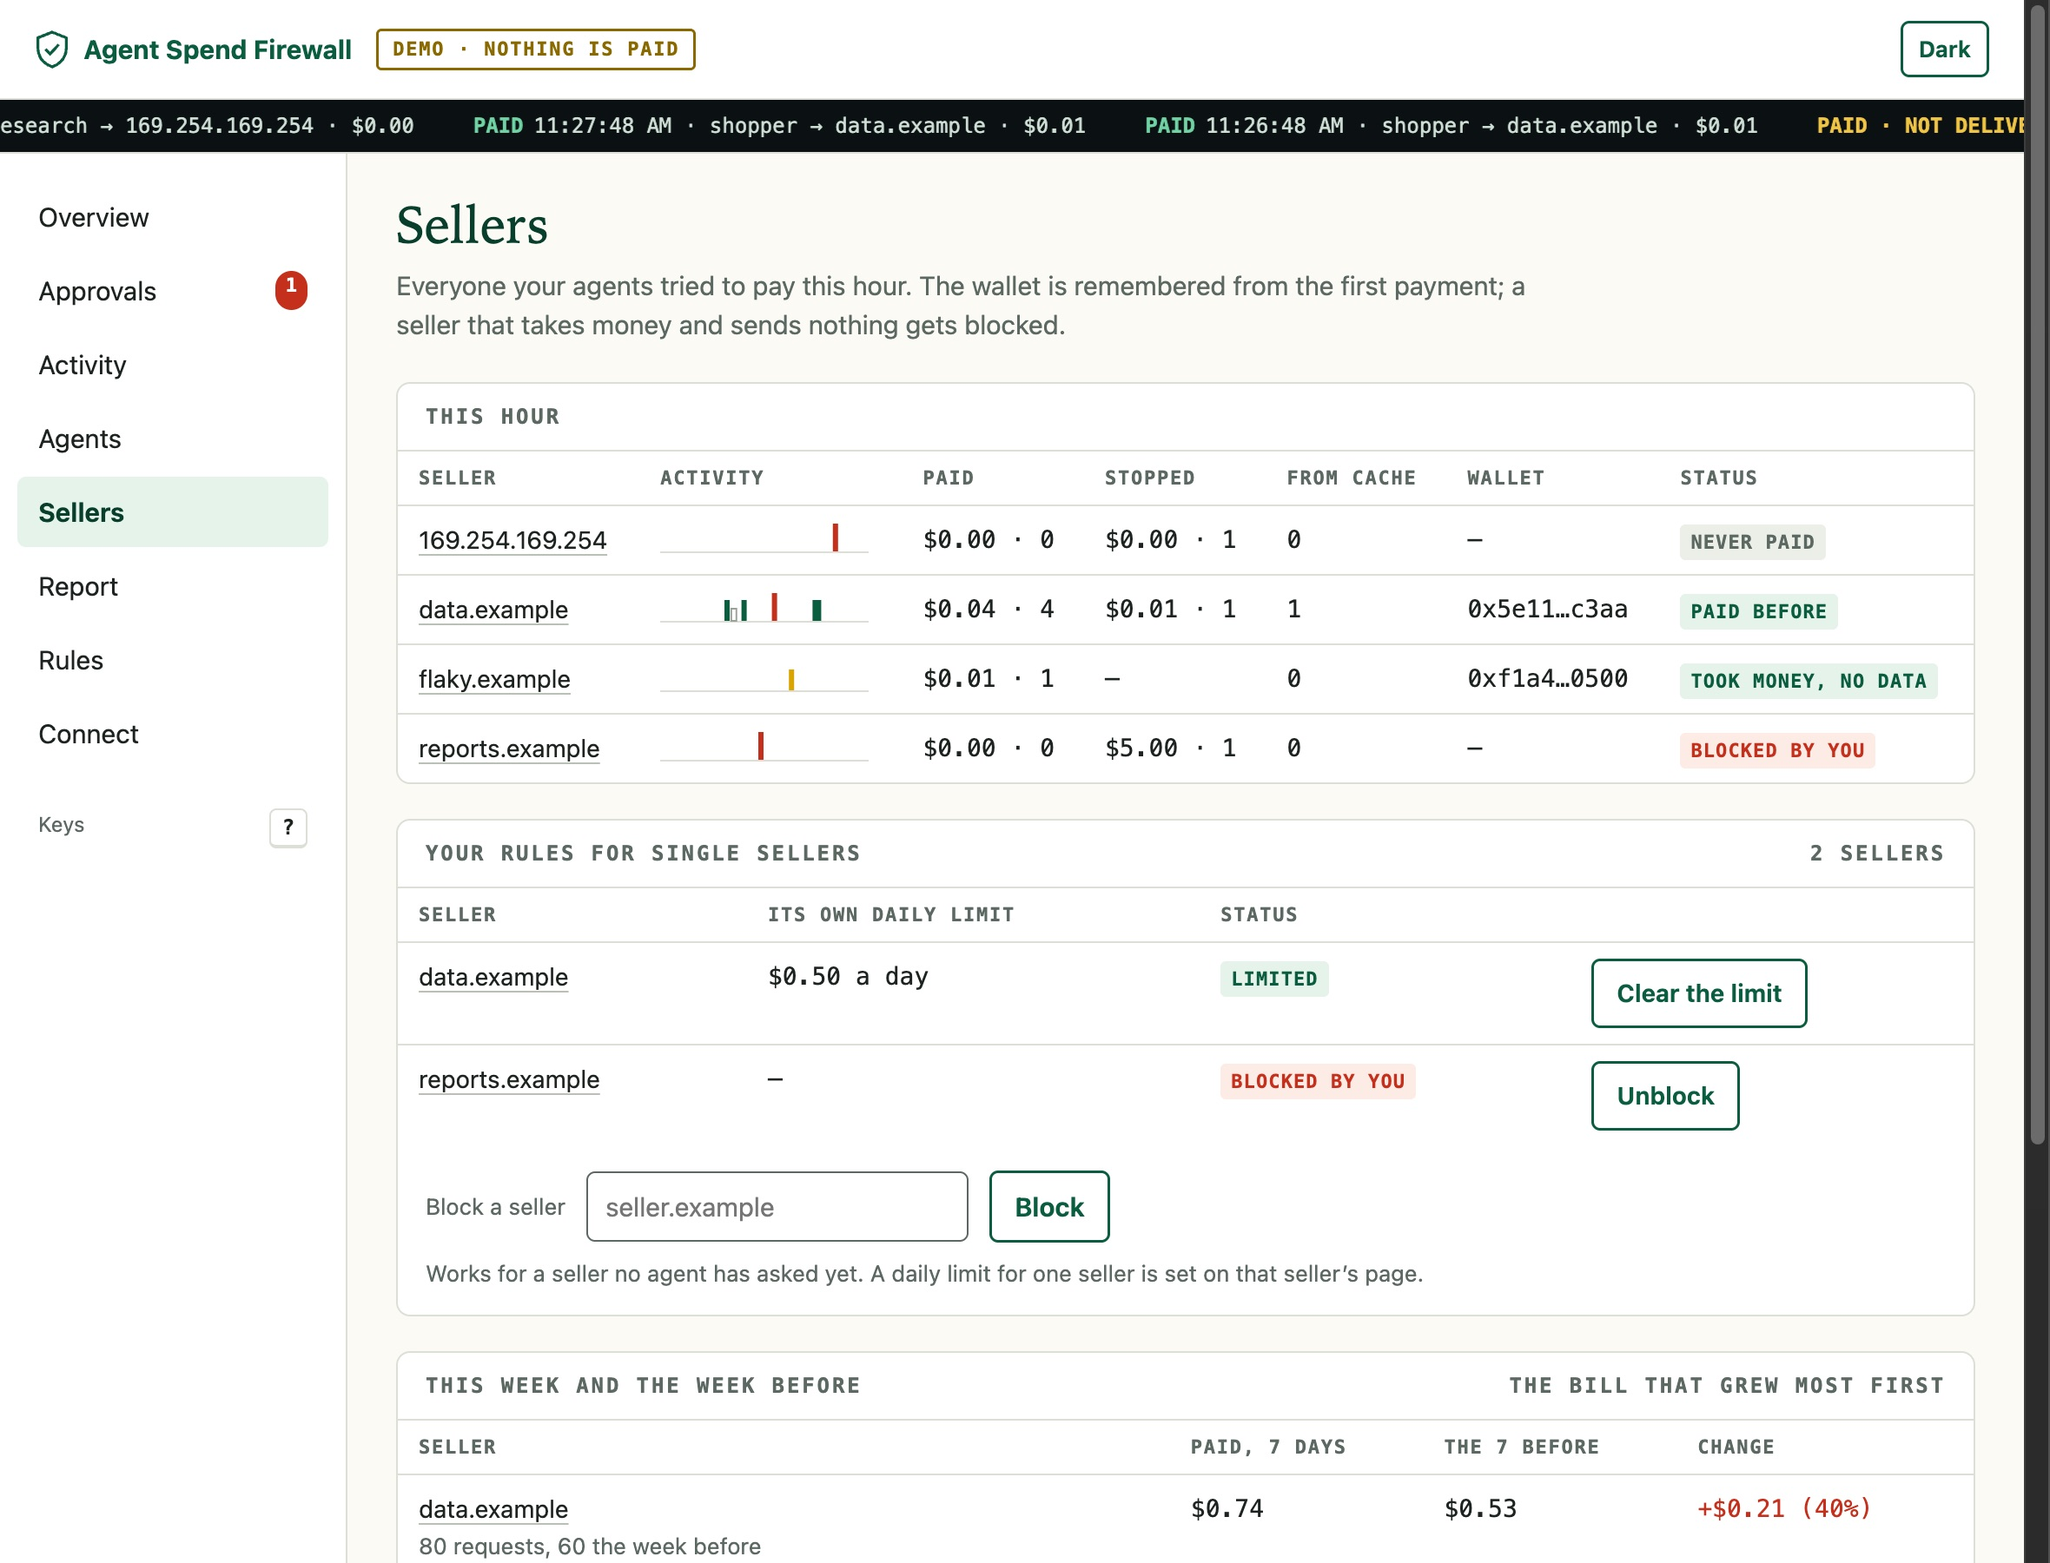
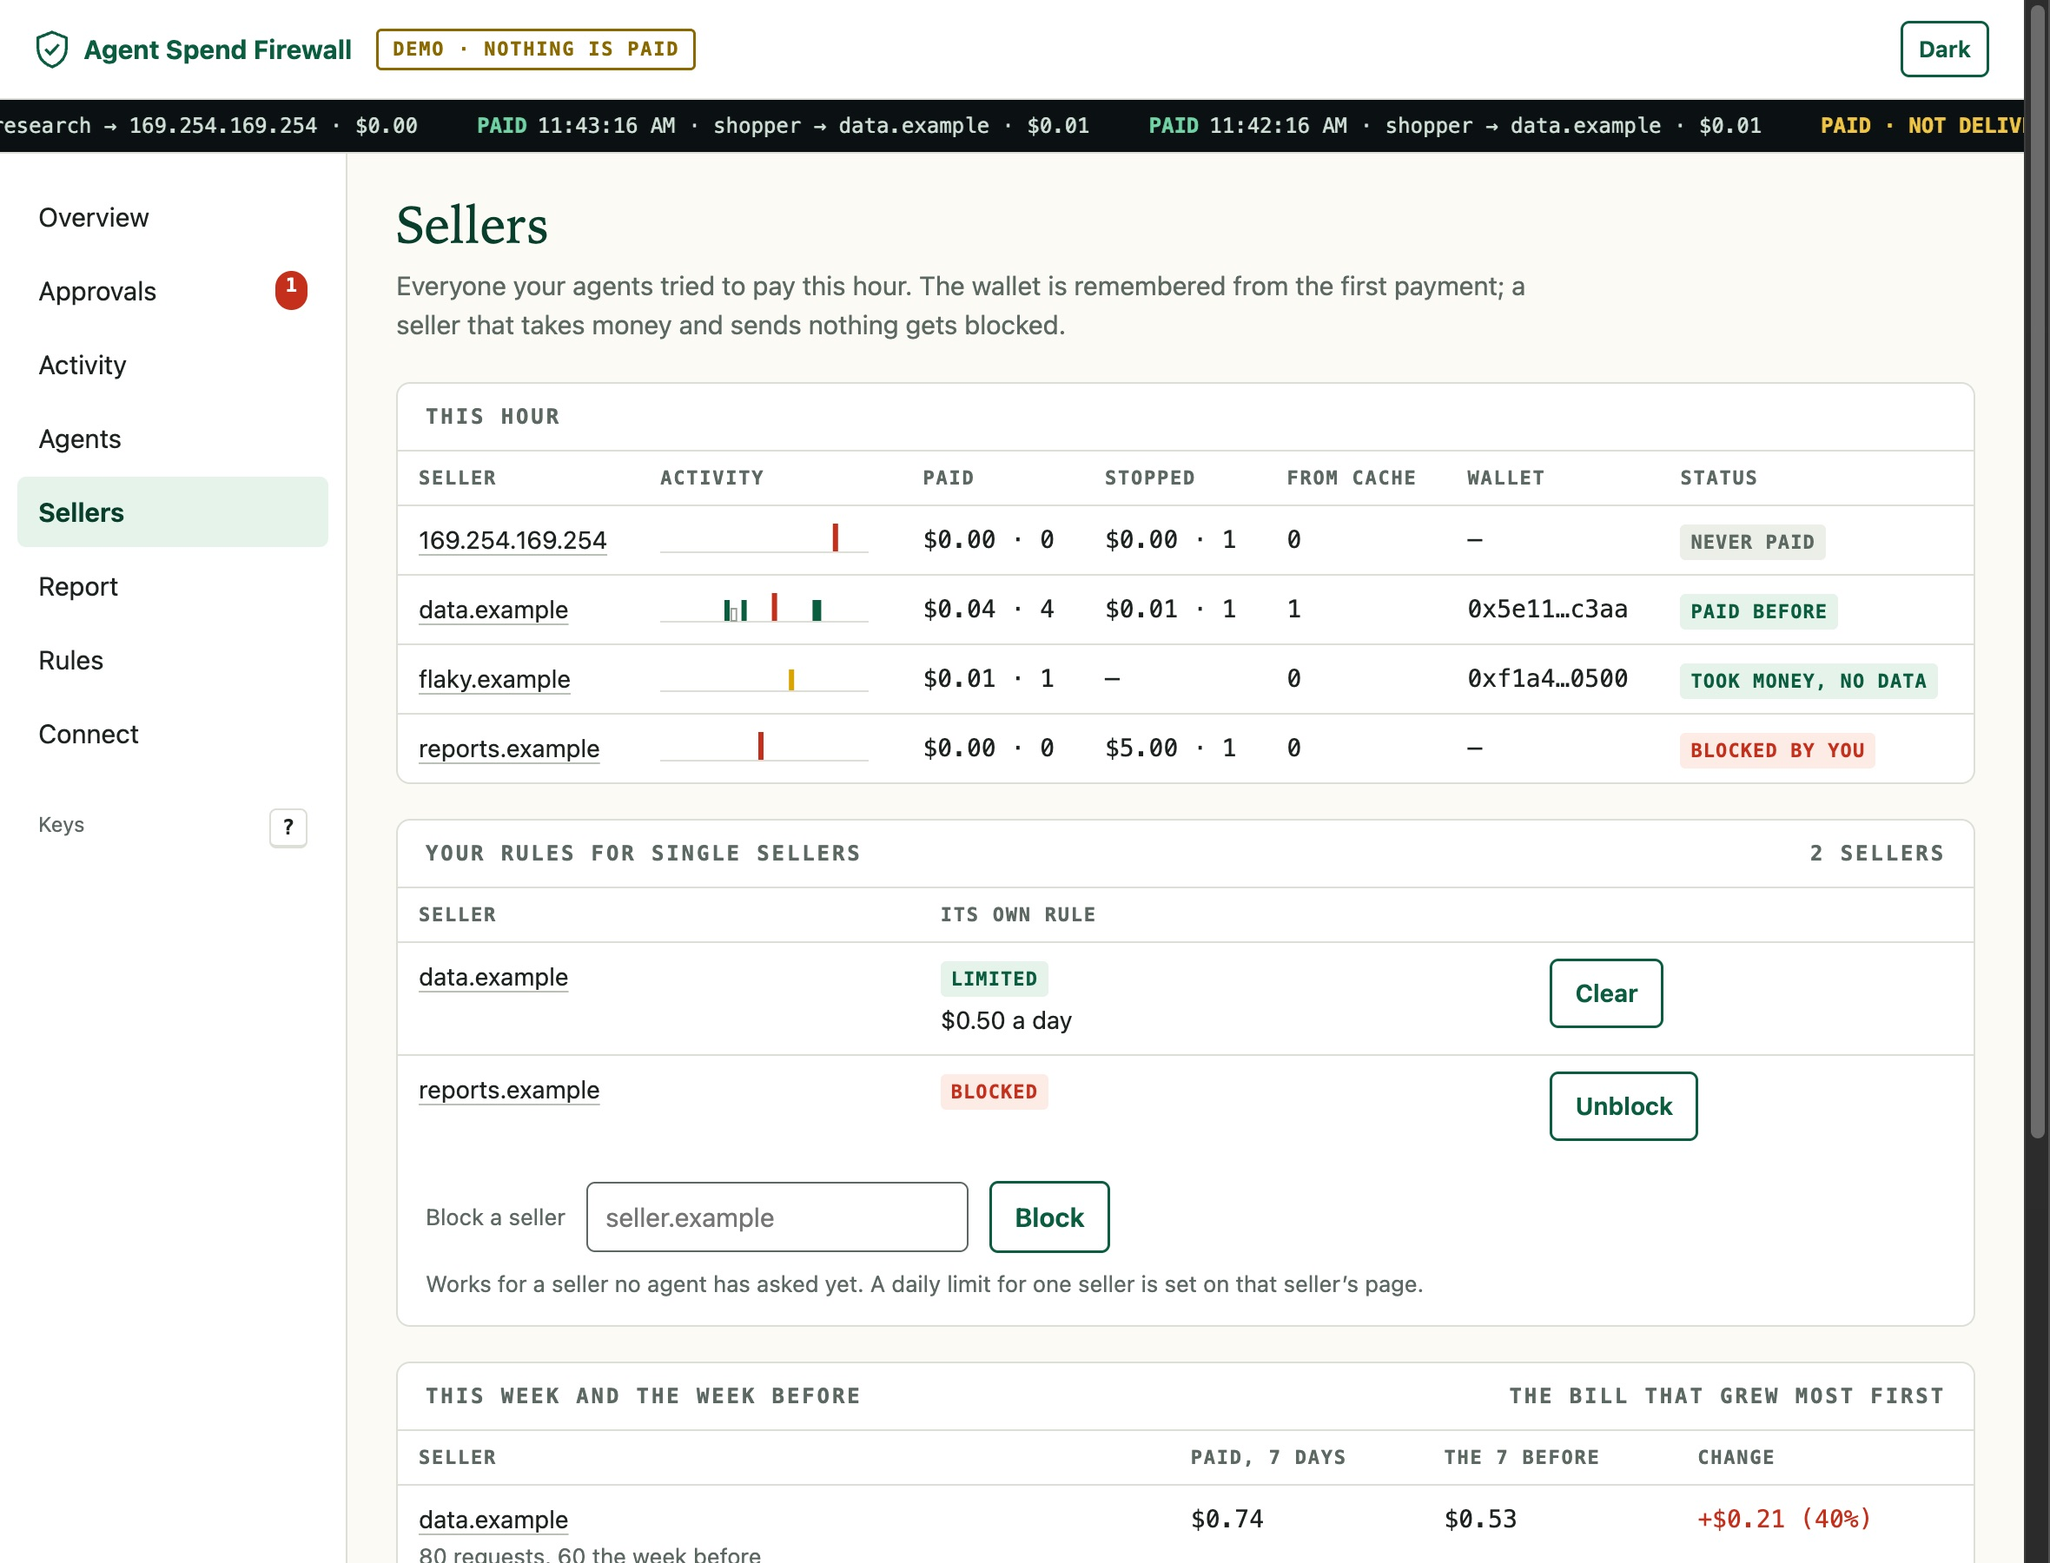
fix: Sellers, Connect and the list of changes at phone width

diff --git a/docs/console/index.html b/docs/console/index.html
@@ -76,6 +76,9 @@ tr.clk{cursor:pointer}tr.clk:hover td{background:var(--bg)}.hist td:nth-child(2)
 .guide .mark{width:24px;height:24px;border-radius:50%;border:1.5px solid var(--ink);display:grid;place-items:center;font:600 12px/1 var(--mono);flex:none}
 .guide .step.done .mark{background:var(--ink);color:#fff}.guide .step.done b{color:var(--mute)}.guide .step>div{flex:1 1 220px;min-width:0}.guide .step small{display:block;color:var(--mute)}
 pre{background:#0b1113;color:#eef5f1;padding:14px 16px;border-radius:6px;overflow-x:auto;font:12.5px/1.6 var(--mono);margin:0;white-space:pre-wrap;word-break:break-word}
+/* A command is read line by line: it keeps its own line breaks and scrolls sideways inside its box when the screen is narrow. */
+pre.cmd{white-space:pre;word-break:normal}
+.card>h2>span{text-align:right}
 .chips{display:flex;gap:6px}.chip{border:1px solid var(--line);background:var(--card);border-radius:99px;padding:4px 10px;font-size:13px;cursor:pointer}.chip.on{border-color:var(--ink);color:var(--ink);font-weight:650}
 aside{border-left:1px solid var(--line);background:var(--card);padding:16px}
 aside h3{font:600 12px/1 var(--mono);letter-spacing:.12em;text-transform:uppercase;color:var(--warn);margin:0 0 6px}
@@ -219,6 +222,8 @@ tbody tr.fresh{animation:fresh 1.6s ease-out}
   main{padding:18px 16px 40px}.tiles{grid-template-columns:repeat(2,minmax(0,1fr))}
   .top .addr{display:none}aside .acts2{grid-template-columns:repeat(2,minmax(0,1fr))}
   th:nth-child(5),td:nth-child(5){display:none}
+  .card>h2{line-height:1.5;align-items:baseline}.hist td .btn{white-space:nowrap;padding:5px 9px;font-size:13px}
+  #slOwn th,#slOwn td{padding-left:10px;padding-right:10px}#slOwn td:first-child{word-break:break-all}
   /* Phone: the top bar is two short rows, long strings break, the practice panel comes after the console. */
   .top{flex-wrap:wrap;gap:8px;padding:10px 12px}.brand,.top .pill,.top .btn{white-space:nowrap}.brand{font-size:14px}.top .pill{font-size:10px;letter-spacing:.04em;padding:4px 6px}
   main{overflow-wrap:break-word}aside{order:2;border-bottom:0;border-top:1px solid var(--line)}
@@ -992,11 +997,12 @@ nav .keyhint{margin-top:14px;font-size:12px;color:var(--mute)}nav .keyhint kbd{m
     var add = function () { var v = inp.value.trim().toLowerCase().replace(/^https?:\/\//, "").split("/")[0]; if (!v) { S.ownMsg = { ok: false, text: "Type the seller\u2019s name, like data.example." }; render(); return; } send(v, { blocked: true }, "Blocked " + v + ". No agent can pay it."); };
     inp.addEventListener("keydown", function (ev) { if (ev.key === "Enter") add(); });
     return h("div", { class: "card", id: "slOwn" }, [h("h2", {}, ["Your rules for single sellers", h("span", { text: hosts.length ? plural(hosts.length, "seller", "sellers") : "none yet" })]),
-      hosts.length ? h("table", {}, [h("thead", {}, [h("tr", {}, ["Seller", "Its own limits", "Status", ""].map(function (t) { return h("th", { text: t }); }))]),
+      hosts.length ? h("table", { class: "hist" }, [h("thead", {}, [h("tr", {}, ["Seller", "Its own rule", ""].map(function (t) { return h("th", { text: t }); }))]),
         h("tbody", {}, hosts.map(function (hn) { var r = R[hn];
-          return h("tr", {}, [h("td", {}, [lnk("seller", hn)]), h("td", { class: "num", text: [r.budget_usd != null ? usd(r.budget_usd) + " an hour" : null, r.daily_budget_usd != null ? usd(r.daily_budget_usd) + " a day" : null].filter(Boolean).join(" \u00b7 ") || "\u2014" }),
-            h("td", {}, [h("span", { class: "tag " + (r.blocked ? "no" : "ok"), text: r.blocked ? "BLOCKED BY YOU" : "LIMITED" })]),
-            h("td", {}, [h("button", { class: "btn", text: r.blocked ? "Unblock" : "Clear the limits", onclick: function () { send(hn, r.blocked ? { blocked: false } : { budget_usd: null, daily_budget_usd: null }, r.blocked ? "Unblocked " + hn + "." : hn + " has no limit of its own now."); } })])]); }))]) : null,
+          var lim = [r.budget_usd != null ? usd(r.budget_usd) + " an hour" : null, r.daily_budget_usd != null ? usd(r.daily_budget_usd) + " a day" : null].filter(Boolean).join(" \u00b7 ");
+          return h("tr", {}, [h("td", {}, [lnk("seller", hn)]),
+            h("td", {}, [h("span", { class: "tag " + (r.blocked ? "no" : "ok"), text: r.blocked ? "BLOCKED" : "LIMITED" }), lim ? h("div", { class: "num", style: "margin-top:4px", text: lim }) : null]),
+            h("td", {}, [h("button", { class: "btn", text: r.blocked ? "Unblock" : "Clear", title: r.blocked ? "Let agents pay this seller again" : "Remove this seller\u2019s own limits", onclick: function () { send(hn, r.blocked ? { blocked: false } : { budget_usd: null, daily_budget_usd: null }, r.blocked ? "Unblocked " + hn + "." : hn + " has no limit of its own now."); } })])]); }))]) : null,
       h("div", { class: "body" }, [h("div", { class: "row" }, [h("span", { class: "why", text: "Block a seller" }), inp, h("button", { class: "btn", id: "ownAdd", text: "Block", onclick: add }), h("span", { class: msg && msg.ok ? "okmsg" : "err", id: "ownMsg", text: msg ? msg.text : "" })]),
         h("small", { class: "why", style: "display:block;margin-top:8px", text: "Works for a seller no agent has asked yet. A daily limit for one seller is set on that seller\u2019s page." })])]);
   }
@@ -2360,7 +2366,7 @@ nav .keyhint{margin-top:14px;font-size:12px;color:var(--mute)}nav .keyhint kbd{m
       var auth = '  -H "authorization: Bearer $(cat ' + tokF + ')"';
       var curl = "# what the agent may spend right now\ncurl -s " + here + "/report \\\n" + auth + "\n\n# buy one paid address, at most $0.02\ncurl -s -X POST " + here + "/fetch \\\n" + auth + " \\\n" + '  -H "content-type: application/json" \\\n' + "  -d '{\"url\": \"https://seller.example/data\", \"max_usd\": \"0.02\"}'";
       var block = function (title, note, text, id) {
-        return h("div", { class: "card" }, [h("h2", {}, [title, note ? h("span", { text: note }) : null]), h("div", { class: "body" }, [h("pre", { id: id, text: text }),
+        return h("div", { class: "card" }, [h("h2", {}, [title, note ? h("span", { text: note }) : null]), h("div", { class: "body" }, [h("pre", { id: id, class: "cmd", text: text }),
           h("div", { class: "row", style: "margin-top:10px" }, [h("button", { class: "btn", text: "Copy", onclick: function (ev) { var bt = ev.currentTarget; if (navigator.clipboard) navigator.clipboard.writeText(text).then(function () { bt.textContent = "Copied"; setTimeout(function () { bt.textContent = "Copy"; }, 1500); }, function () {}); } })])])]);
       };
       var live = S.state.agents.filter(function (a) { return !a.revoked; });

diff --git a/src/console.html b/src/console.html
@@ -76,6 +76,9 @@ tr.clk{cursor:pointer}tr.clk:hover td{background:var(--bg)}.hist td:nth-child(2)
 .guide .mark{width:24px;height:24px;border-radius:50%;border:1.5px solid var(--ink);display:grid;place-items:center;font:600 12px/1 var(--mono);flex:none}
 .guide .step.done .mark{background:var(--ink);color:#fff}.guide .step.done b{color:var(--mute)}.guide .step>div{flex:1 1 220px;min-width:0}.guide .step small{display:block;color:var(--mute)}
 pre{background:#0b1113;color:#eef5f1;padding:14px 16px;border-radius:6px;overflow-x:auto;font:12.5px/1.6 var(--mono);margin:0;white-space:pre-wrap;word-break:break-word}
+/* A command is read line by line: it keeps its own line breaks and scrolls sideways inside its box when the screen is narrow. */
+pre.cmd{white-space:pre;word-break:normal}
+.card>h2>span{text-align:right}
 .chips{display:flex;gap:6px}.chip{border:1px solid var(--line);background:var(--card);border-radius:99px;padding:4px 10px;font-size:13px;cursor:pointer}.chip.on{border-color:var(--ink);color:var(--ink);font-weight:650}
 aside{border-left:1px solid var(--line);background:var(--card);padding:16px}
 aside h3{font:600 12px/1 var(--mono);letter-spacing:.12em;text-transform:uppercase;color:var(--warn);margin:0 0 6px}
@@ -219,6 +222,8 @@ tbody tr.fresh{animation:fresh 1.6s ease-out}
   main{padding:18px 16px 40px}.tiles{grid-template-columns:repeat(2,minmax(0,1fr))}
   .top .addr{display:none}aside .acts2{grid-template-columns:repeat(2,minmax(0,1fr))}
   th:nth-child(5),td:nth-child(5){display:none}
+  .card>h2{line-height:1.5;align-items:baseline}.hist td .btn{white-space:nowrap;padding:5px 9px;font-size:13px}
+  #slOwn th,#slOwn td{padding-left:10px;padding-right:10px}#slOwn td:first-child{word-break:break-all}
   /* Phone: the top bar is two short rows, long strings break, the practice panel comes after the console. */
   .top{flex-wrap:wrap;gap:8px;padding:10px 12px}.brand,.top .pill,.top .btn{white-space:nowrap}.brand{font-size:14px}.top .pill{font-size:10px;letter-spacing:.04em;padding:4px 6px}
   main{overflow-wrap:break-word}aside{order:2;border-bottom:0;border-top:1px solid var(--line)}
@@ -991,11 +996,12 @@ nav .keyhint{margin-top:14px;font-size:12px;color:var(--mute)}nav .keyhint kbd{m
     var add = function () { var v = inp.value.trim().toLowerCase().replace(/^https?:\/\//, "").split("/")[0]; if (!v) { S.ownMsg = { ok: false, text: "Type the seller\u2019s name, like data.example." }; render(); return; } send(v, { blocked: true }, "Blocked " + v + ". No agent can pay it."); };
     inp.addEventListener("keydown", function (ev) { if (ev.key === "Enter") add(); });
     return h("div", { class: "card", id: "slOwn" }, [h("h2", {}, ["Your rules for single sellers", h("span", { text: hosts.length ? plural(hosts.length, "seller", "sellers") : "none yet" })]),
-      hosts.length ? h("table", {}, [h("thead", {}, [h("tr", {}, ["Seller", "Its own limits", "Status", ""].map(function (t) { return h("th", { text: t }); }))]),
+      hosts.length ? h("table", { class: "hist" }, [h("thead", {}, [h("tr", {}, ["Seller", "Its own rule", ""].map(function (t) { return h("th", { text: t }); }))]),
         h("tbody", {}, hosts.map(function (hn) { var r = R[hn];
-          return h("tr", {}, [h("td", {}, [lnk("seller", hn)]), h("td", { class: "num", text: [r.budget_usd != null ? usd(r.budget_usd) + " an hour" : null, r.daily_budget_usd != null ? usd(r.daily_budget_usd) + " a day" : null].filter(Boolean).join(" \u00b7 ") || "\u2014" }),
-            h("td", {}, [h("span", { class: "tag " + (r.blocked ? "no" : "ok"), text: r.blocked ? "BLOCKED BY YOU" : "LIMITED" })]),
-            h("td", {}, [h("button", { class: "btn", text: r.blocked ? "Unblock" : "Clear the limits", onclick: function () { send(hn, r.blocked ? { blocked: false } : { budget_usd: null, daily_budget_usd: null }, r.blocked ? "Unblocked " + hn + "." : hn + " has no limit of its own now."); } })])]); }))]) : null,
+          var lim = [r.budget_usd != null ? usd(r.budget_usd) + " an hour" : null, r.daily_budget_usd != null ? usd(r.daily_budget_usd) + " a day" : null].filter(Boolean).join(" \u00b7 ");
+          return h("tr", {}, [h("td", {}, [lnk("seller", hn)]),
+            h("td", {}, [h("span", { class: "tag " + (r.blocked ? "no" : "ok"), text: r.blocked ? "BLOCKED" : "LIMITED" }), lim ? h("div", { class: "num", style: "margin-top:4px", text: lim }) : null]),
+            h("td", {}, [h("button", { class: "btn", text: r.blocked ? "Unblock" : "Clear", title: r.blocked ? "Let agents pay this seller again" : "Remove this seller\u2019s own limits", onclick: function () { send(hn, r.blocked ? { blocked: false } : { budget_usd: null, daily_budget_usd: null }, r.blocked ? "Unblocked " + hn + "." : hn + " has no limit of its own now."); } })])]); }))]) : null,
       h("div", { class: "body" }, [h("div", { class: "row" }, [h("span", { class: "why", text: "Block a seller" }), inp, h("button", { class: "btn", id: "ownAdd", text: "Block", onclick: add }), h("span", { class: msg && msg.ok ? "okmsg" : "err", id: "ownMsg", text: msg ? msg.text : "" })]),
         h("small", { class: "why", style: "display:block;margin-top:8px", text: "Works for a seller no agent has asked yet. A daily limit for one seller is set on that seller\u2019s page." })])]);
   }
@@ -2359,7 +2365,7 @@ nav .keyhint{margin-top:14px;font-size:12px;color:var(--mute)}nav .keyhint kbd{m
       var auth = '  -H "authorization: Bearer $(cat ' + tokF + ')"';
       var curl = "# what the agent may spend right now\ncurl -s " + here + "/report \\\n" + auth + "\n\n# buy one paid address, at most $0.02\ncurl -s -X POST " + here + "/fetch \\\n" + auth + " \\\n" + '  -H "content-type: application/json" \\\n' + "  -d '{\"url\": \"https://seller.example/data\", \"max_usd\": \"0.02\"}'";
       var block = function (title, note, text, id) {
-        return h("div", { class: "card" }, [h("h2", {}, [title, note ? h("span", { text: note }) : null]), h("div", { class: "body" }, [h("pre", { id: id, text: text }),
+        return h("div", { class: "card" }, [h("h2", {}, [title, note ? h("span", { text: note }) : null]), h("div", { class: "body" }, [h("pre", { id: id, class: "cmd", text: text }),
           h("div", { class: "row", style: "margin-top:10px" }, [h("button", { class: "btn", text: "Copy", onclick: function (ev) { var bt = ev.currentTarget; if (navigator.clipboard) navigator.clipboard.writeText(text).then(function () { bt.textContent = "Copied"; setTimeout(function () { bt.textContent = "Copy"; }, 1500); }, function () {}); } })])])]);
       };
       var live = S.state.agents.filter(function (a) { return !a.revoked; });

diff --git a/README.md b/README.md
@@ -77,7 +77,7 @@ Seller limits: **Most to one seller** in Rules caps what any single seller can b
 
 The same limits as another agent: on an agent’s page, “Fill in its limits” puts another agent’s hourly, daily, weekly and monthly limits into the fields. Nothing changes until you press Save; the list of sellers is not copied.
 
-One seller's own rules: on a seller's page, **Your rules for this seller** sets an hourly and a daily limit for that seller alone (each replaces the general per-seller limit for it, higher or lower) or blocks it, so no agent can pay it until you unblock it (`PUT /admin/sellers/<host>` with `budget_usd`, `daily_budget_usd` and `blocked`; `policy.sellers` in the config). The Sellers page lists every seller with a rule of its own, with Unblock and Clear the limit, and can block a seller by name before any agent has asked it.
+One seller's own rules: on a seller's page, **Your rules for this seller** sets an hourly and a daily limit for that seller alone (each replaces the general per-seller limit for it, higher or lower) or blocks it, so no agent can pay it until you unblock it (`PUT /admin/sellers/<host>` with `budget_usd`, `daily_budget_usd` and `blocked`; `policy.sellers` in the config). The Sellers page lists every seller with a rule of its own, with Unblock and Clear, and can block a seller by name before any agent has asked it.
 
 What you are told about: Rules, Alerts has a tick for each kind of message (a payment waiting, a payment stopped, not delivered, a price rise, a budget warning, an agent paused, a watch, a scheduled run, a changed rule). An unticked kind is not sent, not held and not logged (`PUT /admin/alerts/muted`); payments are stopped and held as before.
 
